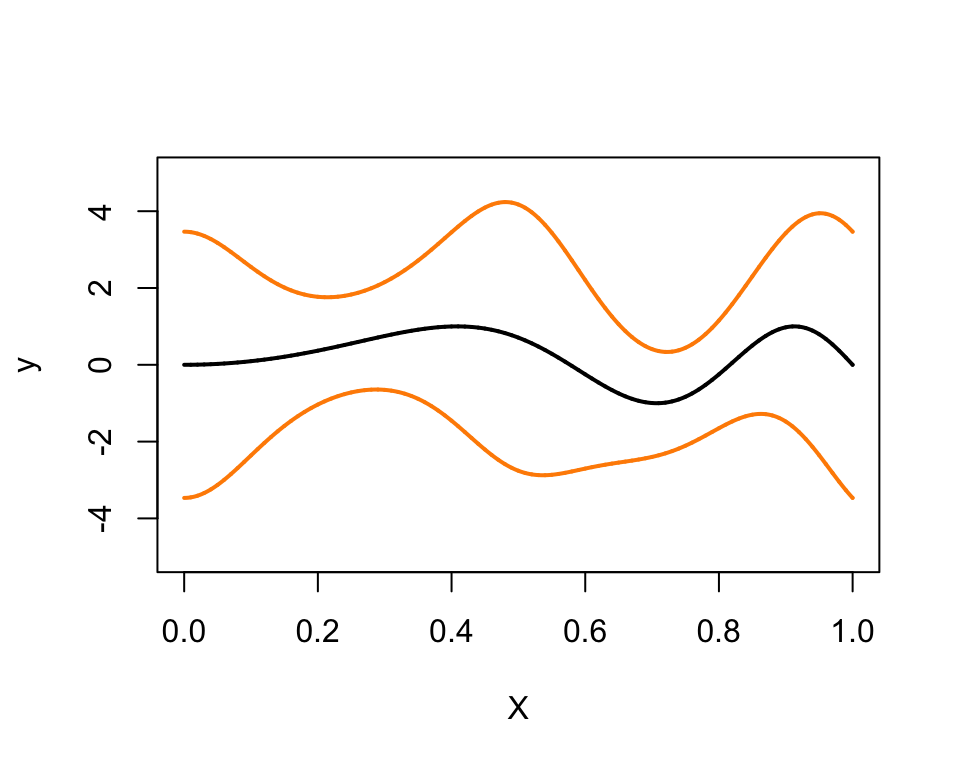
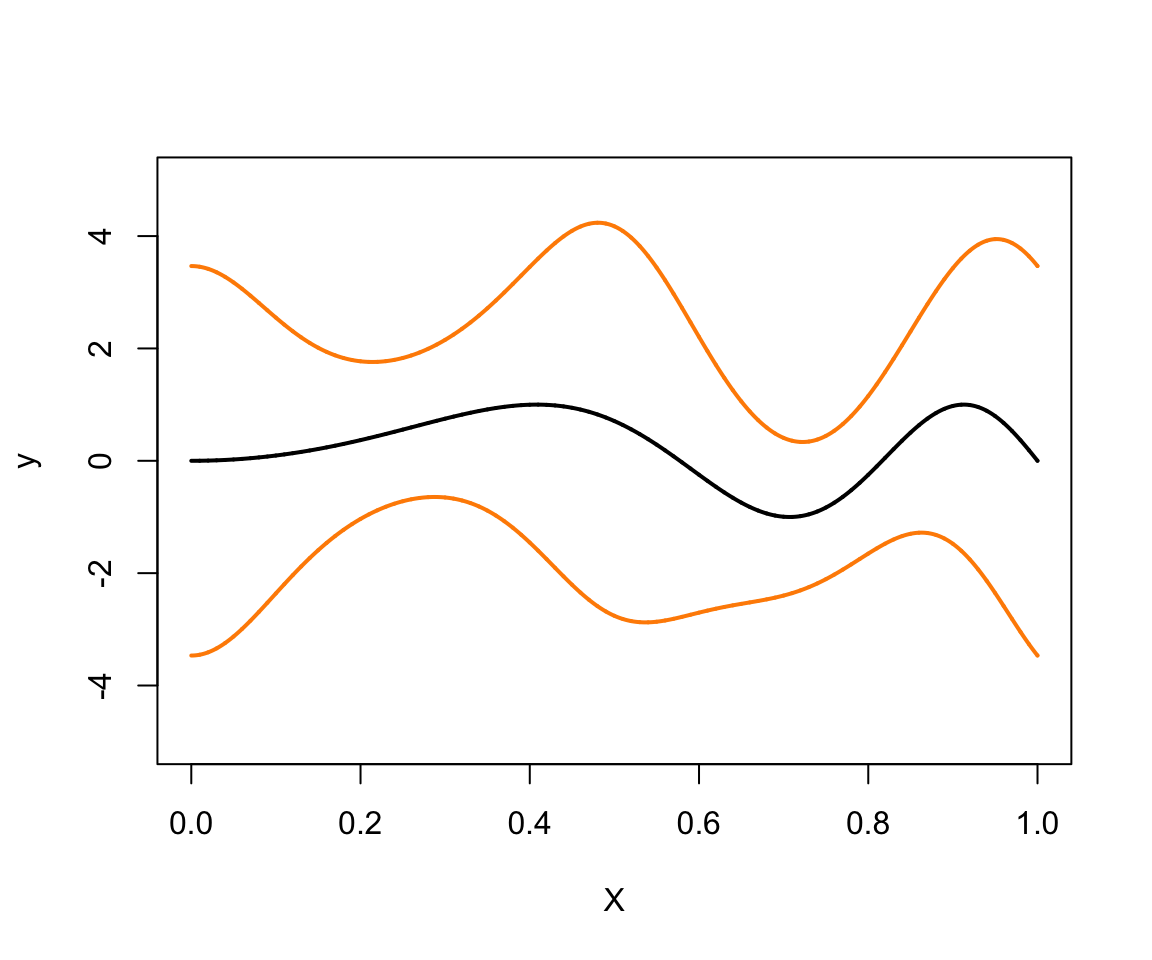
Testing gaussvarest analysis with 10 simulations.

diff --git a/docs/gaussvarest.html b/docs/gaussvarest.html
@@ -241,7 +241,7 @@ div.section {
 </details>
 </li>
 <li>
-<p><details> <summary> <strong style="color:blue;">✔</strong> <strong>Repository version:</strong> <a href="https://github.com/stephenslab/smash-paper/tree/2c6154dfd11ef6987d66fa68db3dd2a4306d6995" target="_blank">2c6154d</a> </summary></p>
+<p><details> <summary> <strong style="color:blue;">✔</strong> <strong>Repository version:</strong> <a href="https://github.com/stephenslab/smash-paper/tree/e1ebc43e2b3f375763904fe66c7ba9f47614279a" target="_blank">e1ebc43</a> </summary></p>
 Great! You are using Git for version control. Tracking code development and connecting the code version to the results is critical for reproducibility. The version displayed above was the version of the Git repository at the time these results were generated. <br><br> Note that you need to be careful to ensure that all relevant files for the analysis have been committed to Git prior to generating the results (you can use <code>wflow_publish</code> or <code>wflow_git_commit</code>). workflowr only checks the R Markdown file, but you know if there are other scripts or data files that it depends on. Below is the status of the Git repository when the results were generated:
 <pre><code>
 Ignored files:
@@ -274,6 +274,9 @@ Ignored files:
     Ignored:    dsc/code/Wavelab850/MEXSource/dst_iii.mexmac
 
 Unstaged changes:
+    Modified:   analysis/chipseq.Rmd
+    Modified:   analysis/motorcycle.Rmd
+    Modified:   analysis/spikesdemo.Rmd
     Deleted:    code/mfvb.functions.R
 
 </code></pre>
@@ -303,6 +306,40 @@ Message
 </tr>
 </thead>
 <tbody>
+<tr>
+<td style="text-align:left;">
+Rmd
+</td>
+<td style="text-align:left;">
+<a href="https://github.com/stephenslab/smash-paper/blob/e1ebc43e2b3f375763904fe66c7ba9f47614279a/analysis/gaussvarest.Rmd" target="_blank">e1ebc43</a>
+</td>
+<td style="text-align:left;">
+Peter Carbonetto
+</td>
+<td style="text-align:left;">
+2018-11-09
+</td>
+<td style="text-align:left;">
+wflow_publish(“gaussvarest.Rmd”)
+</td>
+</tr>
+<tr>
+<td style="text-align:left;">
+html
+</td>
+<td style="text-align:left;">
+<a href="https://cdn.rawgit.com/stephenslab/smash-paper/613f9b22da6bfe78fab4b9477869fc891876ad71/docs/gaussvarest.html" target="_blank">613f9b2</a>
+</td>
+<td style="text-align:left;">
+Peter Carbonetto
+</td>
+<td style="text-align:left;">
+2018-11-09
+</td>
+<td style="text-align:left;">
+First workflowr build of the gaussvarest analysis.
+</td>
+</tr>
 <tr>
 <td style="text-align:left;">
 Rmd
@@ -366,10 +403,10 @@ Moved around some files and revised TOC in home page.
 <div id="initial-setup-instructions" class="section level2">
 <h2>Initial setup instructions</h2>
 <p>To run this example on your own computer, please follow these setup instructions. These instructions assume you already have R and/or RStudio installed on your computer.</p>
-<p>First, download or clone the [git repository][smash-github] on your computer.</p>
+<p>First, download or clone the <a href="https://github.com/stephenslab/smash-paper">git repository</a> on your computer.</p>
 <p>Launch R, and change the working directory to be the “analysis” folder inside your local copy of the git repository.</p>
 <p>Finally, install the smashr package from GitHub:</p>
-<pre class="r"><code>devtools::install_github(&quot;stephenslab/smashr&quot;,upgrade_dependencies = FALSE)</code></pre>
+<pre class="r"><code>devtools::install_github(&quot;stephenslab/smashr&quot;)</code></pre>
 <p>See the “Session Info” at the bottom for the versions of the software and R packages that were used to generate the results shown below.</p>
 </div>
 <div id="set-up-r-environment" class="section level2">
@@ -407,11 +444,41 @@ plot(xgrid,fTrue(xgrid),type = &quot;l&quot;,ylim = c(-5,5),ylab = &quot;y&quot;
      lwd = 2)
 lines(xgrid,fTrue(xgrid) + 2*sqrt(gTrue(xgrid)),col = &quot;darkorange&quot;,lwd = 2)
 lines(xgrid,fTrue(xgrid) - 2*sqrt(gTrue(xgrid)),col = &quot;darkorange&quot;,lwd = 2)</code></pre>
-<p><img src="figure/gaussvarest.Rmd/plot-mean-and-variance-1.png" width="480" style="display: block; margin: auto;" /></p>
+<p><img src="figure/gaussvarest.Rmd/plot-mean-and-variance-1.png" width="576" style="display: block; margin: auto;" /></p>
+<details> <summary><em>Expand here to see past versions of plot-mean-and-variance-1.png:</em></summary>
+<table style="border-collapse:separate; border-spacing:5px;">
+<thead>
+<tr>
+<th style="text-align:left;">
+Version
+</th>
+<th style="text-align:left;">
+Author
+</th>
+<th style="text-align:left;">
+Date
+</th>
+</tr>
+</thead>
+<tbody>
+<tr>
+<td style="text-align:left;">
+<a href="https://github.com/stephenslab/smash-paper/blob/613f9b22da6bfe78fab4b9477869fc891876ad71/docs/figure/gaussvarest.Rmd/plot-mean-and-variance-1.png" target="_blank">613f9b2</a>
+</td>
+<td style="text-align:left;">
+Peter Carbonetto
+</td>
+<td style="text-align:left;">
+2018-11-09
+</td>
+</tr>
+</tbody>
+</table>
+<p></details></p>
 </div>
 <div id="first-simulation-scenario-unevenly-spaced-data" class="section level2">
 <h2>First simulation scenario: unevenly spaced data</h2>
-<p>In the first scenario, we simulated unevenly spaced data points, and assessed accuracy by computing the mean of the squared errors (MSE) evaluated at 201 equally spaced points.</p>
+<p>In the first scenario, we simulate data sets with unevenly spaced data points, and assesse accuracy by computing the mean of the squared errors (MSE) evaluated at 201 equally spaced points.</p>
 <pre class="r"><code>mse.mu.uneven.mfvb  &lt;- 0
 mse.mu.uneven.smash &lt;- 0
 mse.sd.uneven.mfvb  &lt;- 0
@@ -451,8 +518,7 @@ for (j in 1:nsim1) {
   Zv        &lt;- ZOSull(x,intKnots=intKnotsV,range.x=c(a,b))
   numKnotsV &lt;- ncol(Zv) 
 
-  # Run Mean Field Variational Bayes (MFVB)
-  # ---------------------------------------
+  # RUN MEAN FIELD VARIATIONAL BAYES
   X     &lt;- cbind(rep(1,n),x)
   Cumat &lt;- cbind(X,Zu)
   Cvmat &lt;- cbind(X,Zv)
@@ -509,8 +575,8 @@ for (j in 1:nsim1) {
   mu.est.inter  &lt;- approx(x.mod,mu.est,xgOrig,&#39;linear&#39;)$y
   var.est.inter &lt;- approx(x.mod,var.est,xgOrig,&#39;linear&#39;)$y
 
-  mse.mu.uneven.mfvb[j] &lt;- mean((fhatMFVBgOrig - fTrue(xgOrig))^2)
-  mse.sd.uneven.mfvb[j] &lt;- mean((sqrtghatMFVBgOrig-exp((loggTrue(xgOrig))/2))^2)
+  mse.mu.uneven.mfvb[j]&lt;-mean((fhatMFVBgOrig - fTrue(xgOrig))^2)
+  mse.sd.uneven.mfvb[j]&lt;-mean((sqrtghatMFVBgOrig-exp((loggTrue(xgOrig))/2))^2)
 
   mu.est  &lt;- smash.gaus(y.final,filter.number=8,family=&quot;DaubLeAsymm&quot;)
   var.est &lt;- smash.gaus(y.final,v.est=TRUE,v.basis=TRUE,filter.number=8,
@@ -522,8 +588,8 @@ for (j in 1:nsim1) {
   mu.est.inter       &lt;- approx(x.mod,mu.est,xgOrig,&#39;linear&#39;)$y
   var.est.inter      &lt;- approx(x.mod,var.est,xgOrig,&#39;linear&#39;)$y
 
-  mse.mu.uneven.s8[j]=mean((mu.est.inter-fTrue(xgOrig))^2)
-  mse.sd.uneven.s8[j]=mean((sqrt(var.est.inter)-exp((loggTrue(xgOrig))/2))^2)
+  mse.mu.uneven.s8[j]&lt;-mean((mu.est.inter-fTrue(xgOrig))^2)
+  mse.sd.uneven.s8[j]&lt;-mean((sqrt(var.est.inter)-exp((loggTrue(xgOrig))/2))^2)
 }
 cat(&quot;\n&quot;)</code></pre>
 </div>
